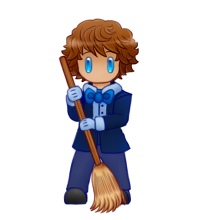
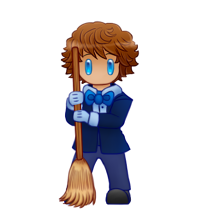
cleaning interaction

Changed region(s): [[0.27, 0.0818, 0.72, 0.9818], [0.6, 0.6273, 0.66, 0.7091]]

diff --git a/src/graphics.ts b/src/graphics.ts
@@ -3,7 +3,7 @@ import type { Stage } from 'konva/lib/Stage';
 import type { Layer } from 'konva/lib/Layer';
 import type { Image as KonvaImage } from 'konva/lib/shapes/Image';
 import type { Physics, Position } from './physics';
-import { Plates } from './physical';
+import { Plate, Plates } from './physical';
 import { BasicAnimation, MovementAnimation } from './animations';
 
 const mainMenuPng = new Image(1920, 1080);
@@ -30,8 +30,11 @@ leftPlantPng.src = 'leftPlant.png';
 const rightPlantPng = new Image(85, 166);
 rightPlantPng.src = 'rightPlant.png';
 
-const platePng = new Image(138, 112);
-platePng.src = 'plate.png';
+// const platePng = new Image(138, 112);
+// platePng.src = 'plate.png';
+
+const brokenPlatePng = new Image(126, 107);
+brokenPlatePng.src = 'broken-plate.png';
 
 export class Graphics {
   private stage: Stage = new Konva.Stage({
@@ -118,6 +121,14 @@ export class Graphics {
     height: 166,
   });
 
+  private brokenPlate: KonvaImage = new Konva.Image({
+    x: 1400,
+    y: 700,
+    image: brokenPlatePng,
+    widht: 94,
+    height: 80,
+  });
+
   private plates: KonvaImage[] = [];
 
   private interval: NodeJS.Timer | undefined;
@@ -133,6 +144,12 @@ export class Graphics {
   private mainMenuAnimation = new BasicAnimation(
     'main-menu/',
     mainMenuPng,
+    300,
+  );
+
+  private cleaningAnimation = new BasicAnimation(
+    'waiter/cleaning/',
+    characterPng,
     300,
   );
 
@@ -219,6 +236,7 @@ export class Graphics {
   }
 
   renderMovementAnimation(to: string) {
+    this.stopCleaningAnimation();
     this.movementAnimation.play(to, this.physics.character!.holding);
   }
 
@@ -273,6 +291,23 @@ export class Graphics {
     this.plates[index].show();
   }
 
+  renderBrokenPlate() {
+    this.backgroundLayer.add(this.brokenPlate);
+  }
+
+  hideBrokenPlate() {
+    this.brokenPlate.remove();
+  }
+
+  renderCleaningAnimation() {
+    this.movementAnimation.stopAll();
+    this.cleaningAnimation.play();
+  }
+
+  stopCleaningAnimation() {
+    this.cleaningAnimation.stop();
+  }
+
   resetLayers() {
     this.backgroundLayer.removeChildren();
     this.characterLayer.removeChildren();
@@ -285,6 +320,7 @@ export class Graphics {
 
   clear() {
     this.resetLayers();
+    this.stopCleaningAnimation();
     this.stage.removeChildren();
     this.plates = [];
     clearInterval(this.interval);

diff --git a/src/run.ts b/src/run.ts
@@ -1,11 +1,12 @@
 import { AudioMixer } from './audio';
 import { Character } from './character';
 import type { Graphics } from './graphics';
-import { PlateInteractions } from './interaction';
+import { CleaningInteraction, PlateInteractions } from './interaction';
 import type { Physics, Position } from './physics';
 
 export class Run {
   private plateInteraction: PlateInteractions;
+  private cleaningInteraction: CleaningInteraction;
   private interval: NodeJS.Timer | undefined;
   private movementIntervals: Map<string, NodeJS.Timer> = new Map();
   private character: Character = new Character();
@@ -14,6 +15,11 @@ export class Run {
     this.audioMixer = new AudioMixer(this.physics);
     this.physics.setCharacter(this.character);
     this.plateInteraction = new PlateInteractions(
+      this.graphics,
+      this.physics,
+      this.character,
+    );
+    this.cleaningInteraction = new CleaningInteraction(
       this.graphics,
       this.physics,
       this.character,
@@ -32,6 +38,7 @@ export class Run {
     this.plateInteraction.reset();
     this.physics.resetCharacterPosition();
     setTimeout(() => this.initAudio(), 3000);
+    setTimeout(() => this.cleaningInteraction.brokenPlateAppearance(), 6000);
     setTimeout(() => this.gameOver(), 65000);
   }
 
@@ -110,8 +117,13 @@ export class Run {
     this.audioMixer.manageTablesSounds();
   }
 
-  playPlateInteraction() {
+  playInteractions() {
     this.plateInteraction.play();
+    this.cleaningInteraction.play();
+  }
+
+  cancelCleaningInteraction() {
+    this.cleaningInteraction.cancel();
   }
 
   stopCharacterMovement(direction: string) {

diff --git a/src/interaction.ts b/src/interaction.ts
@@ -59,3 +59,43 @@ export class PlateInteractions {
     this.serving = 1;
   }
 }
+
+export class CleaningInteraction {
+  private interactable: boolean = false;
+  private timeout: NodeJS.Timeout | undefined;
+  constructor(
+    private graphics: Graphics,
+    private physics: Physics,
+    private character: Character,
+  ) {}
+
+  brokenPlateAppearance() {
+    this.graphics.renderBrokenPlate();
+    this.interactable = true;
+  }
+
+  brokenPlateCleaned() {
+    this.graphics.hideBrokenPlate();
+    this.interactable = false;
+  }
+
+  play() {
+    if (this.character.holding) return;
+    if (!this.interactable) return;
+    if (
+      this.physics.isCharacterOnBrokenPlate() > 130 &&
+      this.physics.isCharacterOnBrokenPlate() < 200
+    ) {
+      this.graphics.renderCleaningAnimation();
+      this.timeout = setTimeout(() => this.brokenPlateCleaned(), 5000);
+    }
+  }
+
+  cancel() {
+    this.graphics.stopCleaningAnimation();
+    if (this.timeout) {
+      clearTimeout(this.timeout);
+      this.timeout = undefined;
+    }
+  }
+}

diff --git a/src/event.ts b/src/event.ts
@@ -35,7 +35,10 @@ export class RunEvents {
 
   playInputs(inputs: GamepadInputs) {
     if (inputs.action.triggered) {
-      this.run.playPlateInteraction();
+      this.run.playInteractions();
+    }
+    if (!inputs.action.triggered) {
+      this.run.cancelCleaningInteraction();
     }
     if (inputs.movement.x === 0) {
       this.run.stopCharacterMovement('right');
@@ -101,7 +104,7 @@ export class RunEvents {
         this.run.stopCharacterMovement('down');
         break;
       case ' ':
-        this.run.playPlateInteraction();
+        this.run.playInteractions();
         break;
     }
     this.lastKeyDown = '';

diff --git a/src/animations.ts b/src/animations.ts
@@ -57,6 +57,12 @@ export class MovementAnimation {
     this.movementAnimationIntervals.delete(direction);
   }
 
+  stopAll() {
+    for (const interval of this.movementAnimationIntervals.values()) {
+      clearInterval(interval);
+    }
+  }
+
   // stop() {
   //   clearInterval(this.movementAnimationInterval);
   // }

diff --git a/src/physics.ts b/src/physics.ts
@@ -160,4 +160,13 @@ export class Physics {
     if (this.character.position.y > 790) return true;
     return false;
   }
+
+  isCharacterOnBrokenPlate() {
+    const distance = this.getDistance(this.character!.position, {
+      x: 1400,
+      y: 700,
+    });
+    console.log(distance);
+    return distance;
+  }
 }
